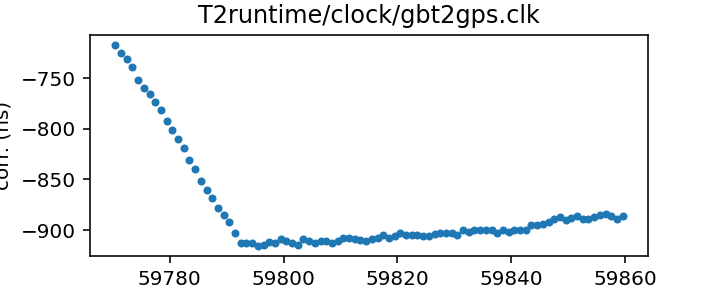
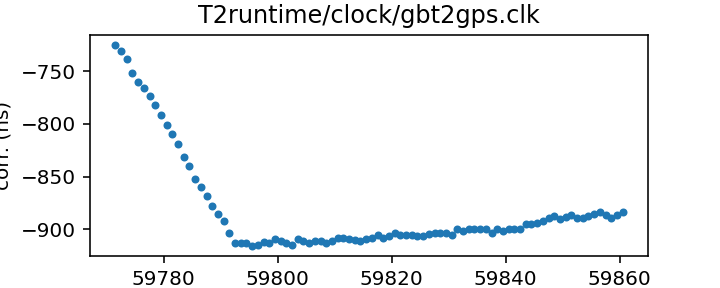
Routine gh-pages update from Github action Sun Oct  9 20:41:04 UTC 2022

diff --git a/status.md b/status.md
@@ -13,17 +13,17 @@ name of each clock file links to a page with more details.
 
 | Name | File | Corrections start | Corrections end | Last check date | Last check result 
 |:--- |:--- | --- | --- | --- |:--- 
-| [GPS to UTC](T2runtime/clock/gps2utc.clk.html) | `T2runtime/clock/gps2utc.clk` | 1993-01-01 MJD 48988.0 | 2022-08-28 MJD 59819.0 | 2022-10-08 | Unchanged 
-| [GPS to UTC (Combined Clock)](T2runtime/clock/gps2utc_cc.clk.html) | `T2runtime/clock/gps2utc_cc.clk` | 1993-01-01 MJD 48988.0 | 2022-08-28 MJD 59819.0 | 2022-10-08 | Unchanged 
-| [GPS to UTC (Corrected)](T2runtime/clock/gps2utc_c0p.clk.html) | `T2runtime/clock/gps2utc_c0p.clk` | 2010-12-29 MJD 55559.0 | 2022-08-28 MJD 59819.0 | 2022-10-08 | Unchanged 
-| [GBT](tempo/clock/time_gbt.dat.html) | `tempo/clock/time_gbt.dat` | 2000-12-31 MJD 51909.5 | 2022-10-07 MJD 59859.5 | 2022-10-08 | Updated 
-| [GBT (TEMPO2 converted from TEMPO)](T2runtime/clock/gbt2gps.clk.html) | `T2runtime/clock/gbt2gps.clk` | 2000-12-31 MJD 51909.5 | 2022-10-07 MJD 59859.5 | 2022-10-08 | Updated 
+| [GPS to UTC](T2runtime/clock/gps2utc.clk.html) | `T2runtime/clock/gps2utc.clk` | 1993-01-01 MJD 48988.0 | 2022-08-28 MJD 59819.0 | 2022-10-09 | Unchanged 
+| [GPS to UTC (Combined Clock)](T2runtime/clock/gps2utc_cc.clk.html) | `T2runtime/clock/gps2utc_cc.clk` | 1993-01-01 MJD 48988.0 | 2022-08-28 MJD 59819.0 | 2022-10-09 | Unchanged 
+| [GPS to UTC (Corrected)](T2runtime/clock/gps2utc_c0p.clk.html) | `T2runtime/clock/gps2utc_c0p.clk` | 2010-12-29 MJD 55559.0 | 2022-08-28 MJD 59819.0 | 2022-10-09 | Unchanged 
+| [GBT](tempo/clock/time_gbt.dat.html) | `tempo/clock/time_gbt.dat` | 2000-12-31 MJD 51909.5 | 2022-10-08 MJD 59860.5 | 2022-10-09 | Updated 
+| [GBT (TEMPO2 converted from TEMPO)](T2runtime/clock/gbt2gps.clk.html) | `T2runtime/clock/gbt2gps.clk` | 2000-12-31 MJD 51909.5 | 2022-10-08 MJD 59860.5 | 2022-10-09 | Updated 
 | [Jodrell Bank](T2runtime/clock/jb2gps.clk.html) | `T2runtime/clock/jb2gps.clk` | 2006-10-13 MJD 54021.4 | 2021-11-03 MJD 59521.0 | 2022-10-05 | Unchanged 
 | [Jodrell Bank Roach](T2runtime/clock/jbroach2jb.clk.html) | `T2runtime/clock/jbroach2jb.clk` | 2006-10-13 MJD 54021.4 | 2018-03-20 MJD 58197.6 | 2022-10-05 | Unchanged 
 | [Jodrell Bank DFB](T2runtime/clock/jbdfb2jb.clk.html) | `T2runtime/clock/jbdfb2jb.clk` | 2006-10-13 MJD 54021.4 | 2017-05-11 MJD 57884.0 | 2022-10-05 | Unchanged 
 | [Meerkat (observatory)](T2runtime/clock/mk2utc_observatory.clk.html) | `T2runtime/clock/mk2utc_observatory.clk` | 2019-01-01 MJD 58484.0 | 2022-08-28 MJD 59820.0 | 2022-10-03 | **Failed to download** 
-| [Leap seconds](tempo/clock/leap.sec.html) | `tempo/clock/leap.sec` | 1972-07-01 MJD 41499.0 | 2017-01-01 MJD 57754.0 | 2022-10-08 | Unchanged 
-| [UT1 table](tempo/clock/ut1.dat.html) | `tempo/clock/ut1.dat` | 1973-01-02 MJD 41684.0 | 2023-10-14 MJD 60231.0 | 2022-10-08 | Unchanged 
+| [Leap seconds](tempo/clock/leap.sec.html) | `tempo/clock/leap.sec` | 1972-07-01 MJD 41499.0 | 2017-01-01 MJD 57754.0 | 2022-10-09 | Unchanged 
+| [UT1 table](tempo/clock/ut1.dat.html) | `tempo/clock/ut1.dat` | 1973-01-02 MJD 41684.0 | 2023-10-14 MJD 60231.0 | 2022-10-09 | Unchanged 
 
 
 

diff --git a/T2runtime/clock/gbt2gps.clk.md b/T2runtime/clock/gbt2gps.clk.md
@@ -23,14 +23,13 @@ If questions arise about the conversion, contact Anne Archibald
 | Format | tempo2 |
 | Bogus last correction | False |
 | Clock file start | 2000-12-31 MJD 51909.5 |
-| Clock file end | 2022-10-07 MJD 59859.5 |
+| Clock file end | 2022-10-08 MJD 59860.5 |
 | Update interval (days) | 1 |
-| Last update attempt | 2022-10-08 |
+| Last update attempt | 2022-10-09 |
 | Last update result | Updated |
 
 Log entries from the last few update attempts:
 ```
-2022-09-29 20:43:05.712 - Updated
 2022-09-30 20:41:31.513 - Updated
 2022-10-01 20:40:09.113 - Updated
 2022-10-02 20:39:40.136 - Updated
@@ -40,12 +39,13 @@ Log entries from the last few update attempts:
 2022-10-06 20:41:51.390 - Updated
 2022-10-07 20:41:30.708 - Updated
 2022-10-08 20:39:39.580 - Updated
+2022-10-09 20:40:37.399 - Updated
 ```
 [Full log](https://raw.githubusercontent.com/ipta/pulsar-clock-corrections/main/log/T2runtime/clock/gbt2gps.clk.log)
 
 Leading comments from clock file:
 
-    # This file was automatically converted from tempo/clock/time_gbt.dat on 2022-10-08 20:39:39.513
+    # This file was automatically converted from tempo/clock/time_gbt.dat on 2022-10-09 20:40:37.317
 
 
 

diff --git a/tempo/clock/time_gbt.dat.md b/tempo/clock/time_gbt.dat.md
@@ -18,14 +18,13 @@ If questions arise, contact Ryan S. Lynch <rlynch@nrao.edu>.
 | Format | tempo |
 | Bogus last correction | False |
 | Clock file start | 2000-12-31 MJD 51909.5 |
-| Clock file end | 2022-10-07 MJD 59859.5 |
+| Clock file end | 2022-10-08 MJD 59860.5 |
 | Update interval (days) | 1 |
-| Last update attempt | 2022-10-08 |
+| Last update attempt | 2022-10-09 |
 | Last update result | Updated |
 
 Log entries from the last few update attempts:
 ```
-2022-09-29 20:43:05.621 - Updated
 2022-09-30 20:41:31.444 - Updated
 2022-10-01 20:40:09.042 - Updated
 2022-10-02 20:39:40.066 - Updated
@@ -35,6 +34,7 @@ Log entries from the last few update attempts:
 2022-10-06 20:41:51.320 - Updated
 2022-10-07 20:41:30.638 - Updated
 2022-10-08 20:39:39.511 - Updated
+2022-10-09 20:40:37.315 - Updated
 ```
 [Full log](https://raw.githubusercontent.com/ipta/pulsar-clock-corrections/main/log/tempo/clock/time_gbt.dat.log)
 

diff --git a/T2runtime/clock/gps2utc_c0p.clk.md b/T2runtime/clock/gps2utc_c0p.clk.md
@@ -30,12 +30,11 @@ about the BIPM's published corrections, contact <tai@bipm.org>.
 | Clock file start | 2010-12-29 MJD 55559.0 |
 | Clock file end | 2022-08-28 MJD 59819.0 |
 | Update interval (days) | 1 |
-| Last update attempt | 2022-10-08 |
+| Last update attempt | 2022-10-09 |
 | Last update result | Unchanged |
 
 Log entries from the last few update attempts:
 ```
-2022-09-29 20:43:04.699 - Unchanged
 2022-09-30 20:41:30.626 - Unchanged
 2022-10-01 20:40:08.252 - Unchanged
 2022-10-02 20:39:39.706 - Unchanged
@@ -45,6 +44,7 @@ Log entries from the last few update attempts:
 2022-10-06 20:41:50.814 - Unchanged
 2022-10-07 20:41:30.274 - Unchanged
 2022-10-08 20:39:38.994 - Unchanged
+2022-10-09 20:40:36.555 - Unchanged
 ```
 [Full log](https://raw.githubusercontent.com/ipta/pulsar-clock-corrections/main/log/T2runtime/clock/gps2utc_c0p.clk.log)
 

diff --git a/T2runtime/clock/gps2utc_cc.clk.md b/T2runtime/clock/gps2utc_cc.clk.md
@@ -29,12 +29,11 @@ about the BIPM's published corrections, contact <tai@bipm.org>.
 | Clock file start | 1993-01-01 MJD 48988.0 |
 | Clock file end | 2022-08-28 MJD 59819.0 |
 | Update interval (days) | 1 |
-| Last update attempt | 2022-10-08 |
+| Last update attempt | 2022-10-09 |
 | Last update result | Unchanged |
 
 Log entries from the last few update attempts:
 ```
-2022-09-29 20:43:04.685 - Unchanged
 2022-09-30 20:41:30.615 - Unchanged
 2022-10-01 20:40:08.241 - Unchanged
 2022-10-02 20:39:39.695 - Unchanged
@@ -44,6 +43,7 @@ Log entries from the last few update attempts:
 2022-10-06 20:41:50.803 - Unchanged
 2022-10-07 20:41:30.264 - Unchanged
 2022-10-08 20:39:38.983 - Unchanged
+2022-10-09 20:40:36.542 - Unchanged
 ```
 [Full log](https://raw.githubusercontent.com/ipta/pulsar-clock-corrections/main/log/T2runtime/clock/gps2utc_cc.clk.log)
 

diff --git a/T2runtime/clock/gps2utc.clk.md b/T2runtime/clock/gps2utc.clk.md
@@ -32,12 +32,11 @@ about the BIPM's published corrections, contact <tai@bipm.org>.
 | Clock file start | 1993-01-01 MJD 48988.0 |
 | Clock file end | 2022-08-28 MJD 59819.0 |
 | Update interval (days) | 1 |
-| Last update attempt | 2022-10-08 |
+| Last update attempt | 2022-10-09 |
 | Last update result | Unchanged |
 
 Log entries from the last few update attempts:
 ```
-2022-09-29 20:43:04.641 - Unchanged
 2022-09-30 20:41:30.583 - Unchanged
 2022-10-01 20:40:08.209 - Unchanged
 2022-10-02 20:39:39.663 - Unchanged
@@ -47,6 +46,7 @@ Log entries from the last few update attempts:
 2022-10-06 20:41:50.771 - Unchanged
 2022-10-07 20:41:30.232 - Unchanged
 2022-10-08 20:39:38.951 - Unchanged
+2022-10-09 20:40:36.502 - Unchanged
 ```
 [Full log](https://raw.githubusercontent.com/ipta/pulsar-clock-corrections/main/log/T2runtime/clock/gps2utc.clk.log)
 

diff --git a/tempo/clock/leap.sec.md b/tempo/clock/leap.sec.md
@@ -21,12 +21,11 @@ If there are any questions, contact Anne Archibald
 | File start | 1972-07-01 MJD 41499.0 |
 | File end | 2017-01-01 MJD 57754.0 |
 | Update interval (days) | 0 |
-| Last update attempt | 2022-10-08 |
+| Last update attempt | 2022-10-09 |
 | Last update result | Unchanged |
 
 Log entries from the last few update attempts:
 ```
-2022-09-29 20:43:08.861 - Unchanged
 2022-09-30 20:41:31.547 - Unchanged
 2022-10-01 20:40:09.143 - Unchanged
 2022-10-02 20:39:40.169 - Unchanged
@@ -36,5 +35,6 @@ Log entries from the last few update attempts:
 2022-10-06 20:41:55.720 - Unchanged
 2022-10-07 20:41:30.741 - Unchanged
 2022-10-08 20:39:39.613 - Unchanged
+2022-10-09 20:40:37.438 - Unchanged
 ```
 [Full log](https://raw.githubusercontent.com/ipta/pulsar-clock-corrections/main/log/tempo/clock/leap.sec.log)

diff --git a/tempo/clock/ut1.dat.md b/tempo/clock/ut1.dat.md
@@ -30,12 +30,11 @@ If there are any questions, contact Anne Archibald
 | File start | 1973-01-02 MJD 41684.0 |
 | File end | 2023-10-14 MJD 60231.0 |
 | Update interval (days) | 0 |
-| Last update attempt | 2022-10-08 |
+| Last update attempt | 2022-10-09 |
 | Last update result | Unchanged |
 
 Log entries from the last few update attempts:
 ```
-2022-09-29 20:43:21.453 - Updated
 2022-09-30 20:41:42.036 - Unchanged
 2022-10-01 20:40:19.734 - Unchanged
 2022-10-02 20:39:48.403 - Unchanged
@@ -45,5 +44,6 @@ Log entries from the last few update attempts:
 2022-10-06 20:42:03.973 - Updated
 2022-10-07 20:41:38.724 - Unchanged
 2022-10-08 20:39:48.045 - Unchanged
+2022-10-09 20:40:47.733 - Unchanged
 ```
 [Full log](https://raw.githubusercontent.com/ipta/pulsar-clock-corrections/main/log/tempo/clock/ut1.dat.log)
